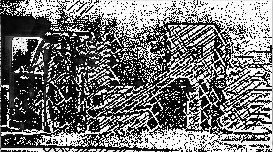
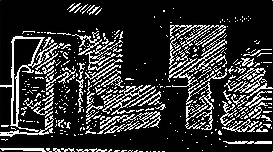
More stuff

diff --git a/src/main.cpp b/src/main.cpp
@@ -94,6 +94,9 @@ int main() {
   memset(bgImg, 0, (N / 3) * sizeof(float));
   memset(fgImg, 0, (N / 3) * sizeof(float));
   memset(alpha, 0, (N / 3) * sizeof(float));
+  for (int i = 0; i < N/3; i++) {
+    fgImg[i] = bgImg[i] = grayscale[2][i];
+  }
   for (int j = 0; j < 4; j++) {
     memset(sparseMap, 0, (N / 3) * sizeof(bool));
     for (int i = 0; i < edgeFlowPairs[j].first.size(); i++) {
@@ -106,7 +109,7 @@ int main() {
     printf("Separating...\n");
     group1[j] = new bool[N / 3];
     group2[j] = new bool[N / 3];
-    separatePoints(width, height, group1[j], group2[j], sparseMap, pointDiffs, 45.0f, 30);
+    separatePoints(width, height, group1[j], group2[j], sparseMap, pointDiffs, 7.5f, 30);
 
     vector<pair<glm::ivec2, glm::ivec2>> fgPoints;
     vector<pair<glm::ivec2, glm::ivec2>> bgPoints;
@@ -154,17 +157,19 @@ int main() {
       // fgImg[idx] *= 0.25f;
       bgViz[idx] = (unsigned char) bgImg[idx];
       fgViz[idx] = (unsigned char) fgImg[idx];
-      bgImg[idx] *= SCALE_1_255;
-      fgImg[idx] *= SCALE_1_255;
-      if (fabs(bgImg[idx] - grayscale[2][idx]) < 35.0f) {
+      if (fabs(bgImg[idx] - grayscale[2][idx]) < 40.0f) {
         alpha[idx] = 1.0f;
         alphaViz[idx] = 255;
       } else {
         alpha[idx] = 0.0f;
         alphaViz[idx] = 0;
       }
+      bgImg[idx] *= SCALE_1_255;
+      fgImg[idx] *= SCALE_1_255;
     }
   }
+  Mat gs(Size(width, height), CV_8UC1, grayscale[2]);
+  imwrite("grayscale.jpg", gs);
   Mat mat(Size(width, height), CV_8UC1, bgViz);
   imwrite("bg_img.jpg", mat);
   Mat mat2(Size(width, height), CV_8UC1, fgViz);

diff --git a/src/gradient_descent.h b/src/gradient_descent.h
@@ -5,12 +5,12 @@
 class GradientDescent {
   private:
     const int GD_ROUNDS = 5;
-    const int IMG_ROUNDS = 30;
-    const float LEARNING_RATE1 = 1e-6;
+    const int IMG_ROUNDS = 10;
+    const float LEARNING_RATE1 = 1e-5;
     const int MOTION_ROUNDS = 10;
     const float LEARNING_RATE2 = 1e4;
     const float LAMBDA_1 = 1.0f;
-    const float LAMBDA_2 = 0.1f;
+    const float LAMBDA_2 = 10.0f;
     const float LAMBDA_3 = 3000.0f;
     const float LAMBDA_4 = 0.5f;
     const float LAMBDA_P = 1e5;

diff --git a/src/lk.cpp b/src/lk.cpp
@@ -13,7 +13,7 @@ pair<vector<Point2f>, vector<Point2f>> lkEdgeFlow(int N, int width, int height, 
   }
   vector<uchar> status;
   vector<float> err;
-  calcOpticalFlowPyrLK(mat1, mat2, points[0], points[1], status, err, Size(11, 11));
+  calcOpticalFlowPyrLK(mat1, mat2, points[0], points[1], status, err, Size(31, 31));
   for (int i = 0; i < points[1].size(); i++) {
     if (status[i] == 0) continue;
     points[1][i] -= points[0][i];

diff --git a/src/gradient_descent.cpp b/src/gradient_descent.cpp
@@ -176,7 +176,7 @@ void GradientDescent::optimizeImageComponents() {
         imgO[idx(x, y)] = 0.0f;
       }
       //printf("%f\n", imgB_gd[idx(x, y)]);
-      imgB[idx(x, y)] -= this->LEARNING_RATE1 * imgB_gd[idx(x, y)] * 100.0;
+      imgB[idx(x, y)] -= this->LEARNING_RATE1 * imgB_gd[idx(x, y)];
       if (imgB[idx(x, y)] >= 2.0f) {
         imgB[idx(x, y)] = 1.0f;
       } else if (imgB[idx(x, y)] <= -1.0f) {
